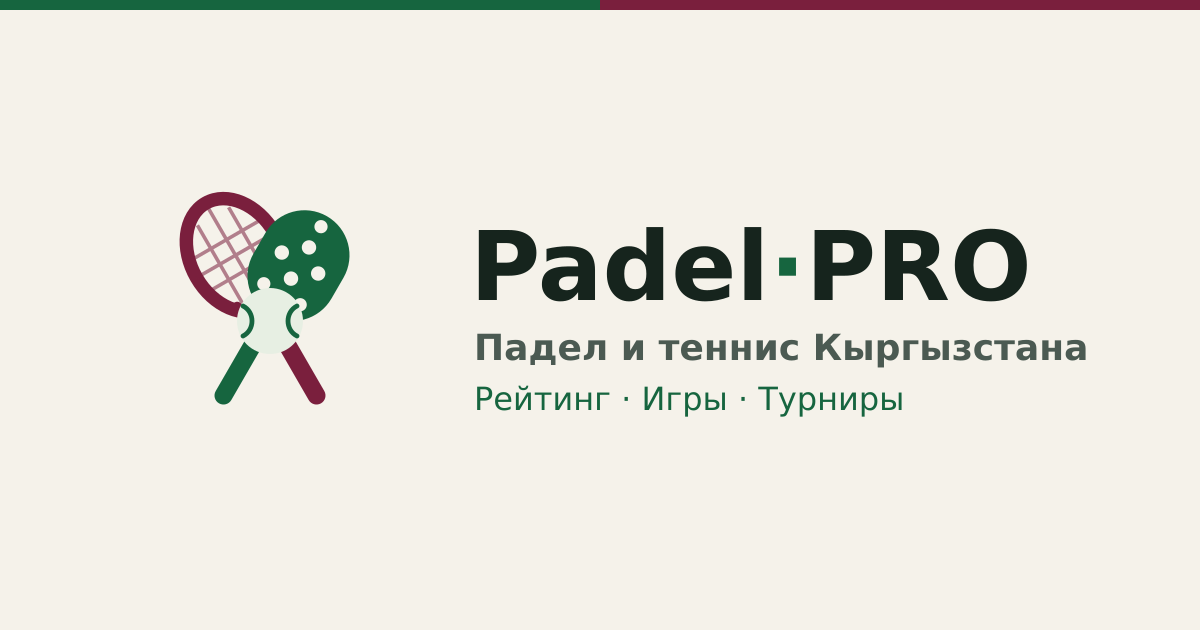
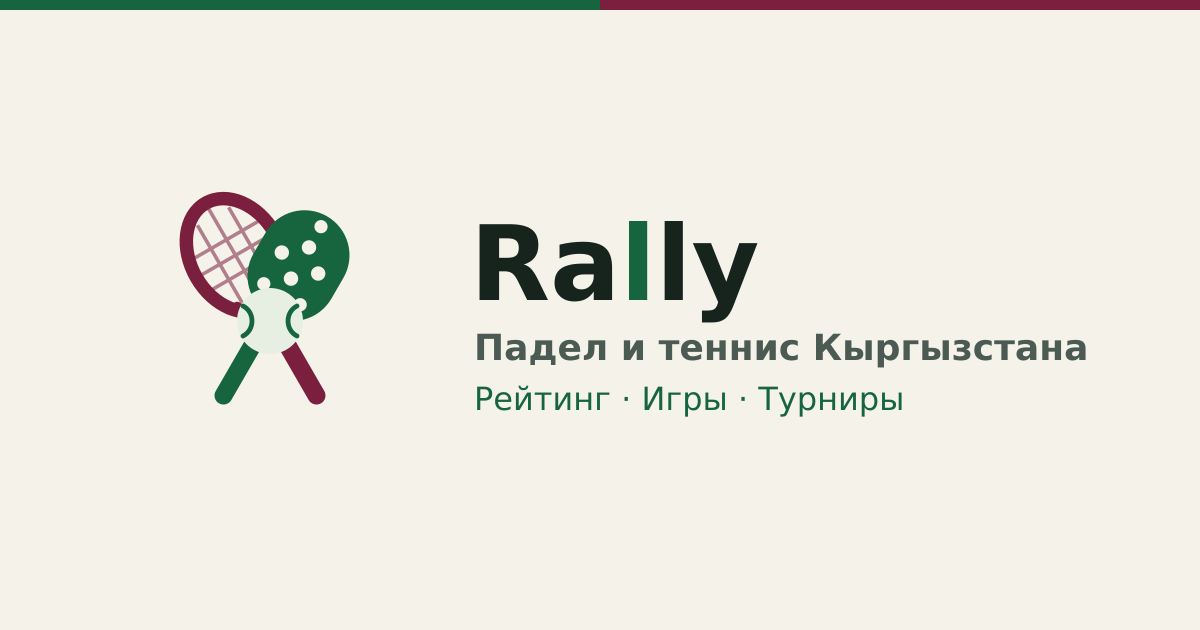
Ребрендинг: Padel-PRO → Rally
- Вордмарк в шапке, siteName, footer (ru+ky)
- Заголовки страниц, OG/Twitter мета, manifest/PWA
- Новая OG-картинка public/og.png с «Rally»

Claude-Session: https://claude.ai/code/session_01TmjpHYogGxkJUnZZ7RNpXB

Changed region(s): [[0.4008, 0.3317, 0.8633, 0.5127]]

diff --git a/src/app/tournaments/[id]/page.tsx b/src/app/tournaments/[id]/page.tsx
@@ -33,7 +33,7 @@ export async function generateMetadata({
 }): Promise<Metadata> {
   const { id } = await params;
   const tr = await getTournament(id);
-  if (!tr) return { title: "Турнир — Padel-PRO" };
+  if (!tr) return { title: "Турнир — Rally" };
   const sport = tr.sport === "padel" ? "Падел" : "Теннис";
   const when = new Date(tr.starts_at).toLocaleString("ru-RU", {
     day: "numeric",
@@ -41,7 +41,7 @@ export async function generateMetadata({
     hour: "2-digit",
     minute: "2-digit",
   });
-  const title = `${tr.name} · ${sport} — Padel-PRO`;
+  const title = `${tr.name} · ${sport} — Rally`;
   const desc = `Турнир ${tr.format} · ${when}${tr.courts ? " · " + tr.courts.name : ""}${
     tr.price_som != null ? " · взнос " + tr.price_som + " сом" : ""
   }. Регистрируйся!`;
@@ -79,7 +79,7 @@ export default async function TournamentPage({
   const free = tr.max_players - joined;
   const iJoined = me ? participants.some((p) => p.player_id === me.id) : false;
   const accent = tr.sport === "padel" ? "text-green" : "text-burgundy";
-  const shareText = `Турнир «${tr.name}» · ${fmtDate(tr.starts_at, lang)} — регистрируйся на Padel-PRO`;
+  const shareText = `Турнир «${tr.name}» · ${fmtDate(tr.starts_at, lang)} — регистрируйся на Rally`;
   const cHref = tr.organizer_contact ? contactHref(tr.organizer_contact) : null;
 
   return (
@@ -233,7 +233,7 @@ export default async function TournamentPage({
       </div>
 
       <div className="rounded-2xl border border-line bg-surface p-6">
-        <ShareButton title="Padel-PRO — турнир" text={shareText} />
+        <ShareButton title="Rally — турнир" text={shareText} />
       </div>
     </div>
   );

diff --git a/src/app/games/[id]/page.tsx b/src/app/games/[id]/page.tsx
@@ -32,7 +32,7 @@ export async function generateMetadata({
 }): Promise<Metadata> {
   const { id } = await params;
   const game = await getGame(id);
-  if (!game) return { title: "Игра — Padel-PRO" };
+  if (!game) return { title: "Игра — Rally" };
   const sport = game.sport === "padel" ? "Падел" : "Теннис";
   const when = new Date(game.starts_at).toLocaleString("ru-RU", {
     day: "numeric",
@@ -40,7 +40,7 @@ export async function generateMetadata({
     hour: "2-digit",
     minute: "2-digit",
   });
-  const title = `${sport} · ${when}${game.courts ? " · " + game.courts.name : ""} — Padel-PRO`;
+  const title = `${sport} · ${when}${game.courts ? " · " + game.courts.name : ""} — Rally`;
   const lvl = game.level && game.level !== "Любой уровень" ? ", уровень " + game.level : "";
   const desc = `Открытая игра${lvl} · до ${game.max_players} игроков${
     game.price_som != null ? " · " + game.price_som + " сом" : ""
@@ -82,7 +82,7 @@ export default async function GamePage({
   const sportLabel = game.sport === "padel" ? t.padel : t.tennis;
   const shareText = `${sportLabel} · ${fmtDate(game.starts_at, lang)}${
     game.courts ? " · " + game.courts.name : ""
-  } — присоединяйся на Padel-PRO`;
+  } — присоединяйся на Rally`;
 
   const cHref = game.organizer_contact ? contactHref(game.organizer_contact) : null;
 
@@ -252,7 +252,7 @@ export default async function GamePage({
       </div>
 
       <div className="rounded-2xl border border-line bg-surface p-6">
-        <ShareButton title="Padel-PRO — открытая игра" text={shareText} />
+        <ShareButton title="Rally — открытая игра" text={shareText} />
       </div>
     </div>
   );

diff --git a/src/app/layout.tsx b/src/app/layout.tsx
@@ -12,22 +12,22 @@ import { currentUser } from "@/lib/auth";
 
 export const metadata: Metadata = {
   metadataBase: new URL("https://padel-pro-bay.vercel.app"),
-  applicationName: "Padel-PRO",
-  title: "Padel-PRO — рейтинг падела и тенниса в Кыргызстане",
+  applicationName: "Rally",
+  title: "Rally — рейтинг падела и тенниса в Кыргызстане",
   description:
     "Единая платформа падел- и теннис-сообщества Кыргызстана: рейтинг игроков, запись на игры, турниры и результаты матчей.",
   openGraph: {
     type: "website",
-    siteName: "Padel-PRO",
+    siteName: "Rally",
     locale: "ru_RU",
-    title: "Padel-PRO — падел и теннис Кыргызстана",
+    title: "Rally — падел и теннис Кыргызстана",
     description:
       "Рейтинг игроков, открытые игры на кортах Бишкека, турниры и результаты матчей.",
     images: ["/og.png"],
   },
   twitter: {
     card: "summary_large_image",
-    title: "Padel-PRO — падел и теннис Кыргызстана",
+    title: "Rally — падел и теннис Кыргызстана",
     description:
       "Рейтинг игроков, открытые игры на кортах Бишкека, турниры и результаты матчей.",
     images: ["/og.png"],
@@ -35,7 +35,7 @@ export const metadata: Metadata = {
   manifest: "/manifest.webmanifest",
   appleWebApp: {
     capable: true,
-    title: "Padel-PRO",
+    title: "Rally",
     statusBarStyle: "default",
   },
   other: {

diff --git a/src/lib/i18n.ts b/src/lib/i18n.ts
@@ -2,7 +2,7 @@ export type Lang = "ru" | "ky";
 
 export const dict = {
   ru: {
-    siteName: "Padel-PRO",
+    siteName: "Rally",
     tagline: "Рейтинг падела и тенниса в Кыргызстане",
     kicker: "Падел × Теннис · Кыргызстан",
     heroTitle: "Одна культура спорта.",
@@ -59,7 +59,7 @@ export const dict = {
     profileMatches: "История матчей",
     score: "Счёт",
     vs: "против",
-    footer: "Padel-PRO — рейтинг падела и тенниса в Кыргызстане",
+    footer: "Rally — рейтинг падела и тенниса в Кыргызстане",
     all: "Все",
     yourName: "Твоё имя",
     phone: "Телефон",
@@ -107,7 +107,7 @@ export const dict = {
     },
   },
   ky: {
-    siteName: "Padel-PRO",
+    siteName: "Rally",
     tagline: "Кыргызстандагы падел жана теннис рейтинги",
     kicker: "Падел × Теннис · Кыргызстан",
     heroTitle: "Спорттун бир маданияты.",
@@ -164,7 +164,7 @@ export const dict = {
     profileMatches: "Матчтардын тарыхы",
     score: "Эсеп",
     vs: "каршы",
-    footer: "Padel-PRO — Кыргызстандагы падел жана теннис рейтинги",
+    footer: "Rally — Кыргызстандагы падел жана теннис рейтинги",
     all: "Баары",
     yourName: "Атың",
     phone: "Телефон",

diff --git a/src/components/Emblem.tsx b/src/components/Emblem.tsx
@@ -1,5 +1,5 @@
 /**
- * Фирменный знак Padel-PRO: теннисная ракетка (бордовая) и падел-ракетка (зелёная)
+ * Фирменный знак Rally: теннисная ракетка (бордовая) и падел-ракетка (зелёная)
  * скрещены крест-накрест за одним мячом — символ единства двух культур.
  */
 export function Emblem({
@@ -27,7 +27,7 @@ export function Emblem({
       fill="none"
       className={className}
       role="img"
-      aria-label="Padel-PRO"
+      aria-label="Rally"
     >
       {/* Теннисная ракетка (бордовая) */}
       <g transform="rotate(-30 50 50)">

diff --git a/src/app/how/page.tsx b/src/app/how/page.tsx
@@ -59,7 +59,7 @@ export default async function HowPage() {
         </span>
         <h1 className="text-4xl sm:text-5xl font-bold display">Как это работает</h1>
         <p className="text-ink-soft text-lg">
-          Padel-PRO объединяет падел- и теннис-сообщество Кыргызстана: находи партнёров,
+          Rally объединяет падел- и теннис-сообщество Кыргызстана: находи партнёров,
           играй на кортах Бишкека и следи за своим рейтингом.
         </p>
       </div>

diff --git a/src/app/login/page.tsx b/src/app/login/page.tsx
@@ -26,7 +26,7 @@ export default async function LoginPage({
   return (
     <div className="flex flex-col items-center gap-8">
       <div className="flex flex-col gap-2 text-center">
-        <h1 className="text-4xl sm:text-5xl font-bold display">Вход в Padel-PRO</h1>
+        <h1 className="text-4xl sm:text-5xl font-bold display">Вход в Rally</h1>
         <p className="text-ink-soft max-w-md">
           Войди по номеру телефона, чтобы создавать игры, записываться к другим и
           вести свой профиль и рейтинг.

diff --git a/src/app/globals.css b/src/app/globals.css
@@ -1,7 +1,7 @@
 @import url("https://fonts.googleapis.com/css2?family=Bricolage+Grotesque:opsz,wght@12..96,500;12..96,600;12..96,700;12..96,800&family=Instrument+Sans:wght@400;500;600&display=swap");
 @import "tailwindcss";
 
-/* Padel-PRO — минимализм, единство падела (зелёный) и тенниса (бордовый) */
+/* Rally — минимализм, единство падела (зелёный) и тенниса (бордовый) */
 @theme {
   --color-cream: #f5f2ea;      /* тёплый фон */
   --color-surface: #ffffff;    /* карточки */

diff --git a/src/app/manifest.ts b/src/app/manifest.ts
@@ -2,8 +2,8 @@ import type { MetadataRoute } from "next";
 
 export default function manifest(): MetadataRoute.Manifest {
   return {
-    name: "Padel-PRO — падел и теннис Кыргызстана",
-    short_name: "Padel-PRO",
+    name: "Rally — падел и теннис Кыргызстана",
+    short_name: "Rally",
     description:
       "Рейтинг, открытые игры и турниры по паделу и теннису в Кыргызстане. Создавай игры и находи партнёров.",
     start_url: "/",

diff --git a/src/components/Header.tsx b/src/components/Header.tsx
@@ -51,7 +51,7 @@ export function Header({ lang, user }: { lang: Lang; user: HeaderUser }) {
         <Link href="/" className="flex items-center gap-2.5 group">
           <Emblem size={34} className="transition-transform duration-300 group-hover:rotate-[8deg]" />
           <span className="display text-xl font-bold tracking-tight">
-            Padel<span className="text-green">·</span>PRO
+Ra<span className="text-green">l</span>ly
           </span>
         </Link>
 

diff --git a/src/lib/elo.ts b/src/lib/elo.ts
@@ -1,4 +1,4 @@
-// Elo-система рейтинга Padel-PRO
+// Elo-система рейтинга Rally
 // Стартовый рейтинг 1000, K-фактор 32 (24 после 30 матчей)
 
 const START_RATING = 1000;
